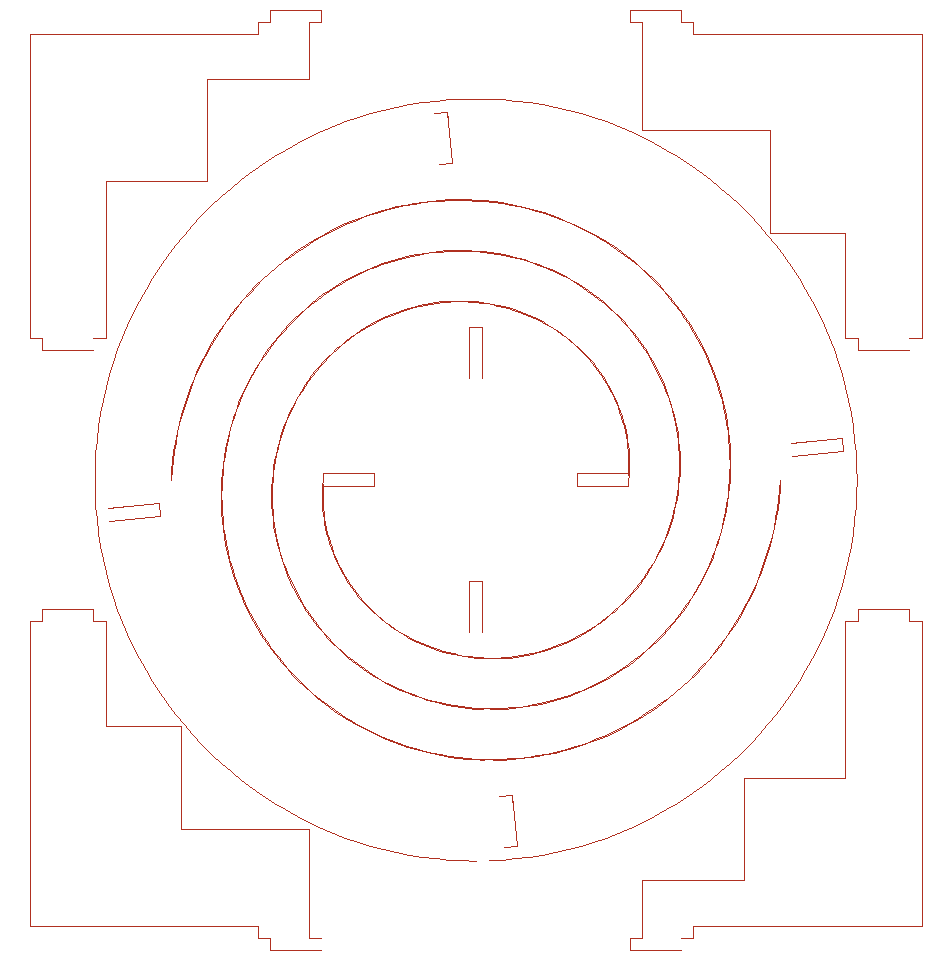
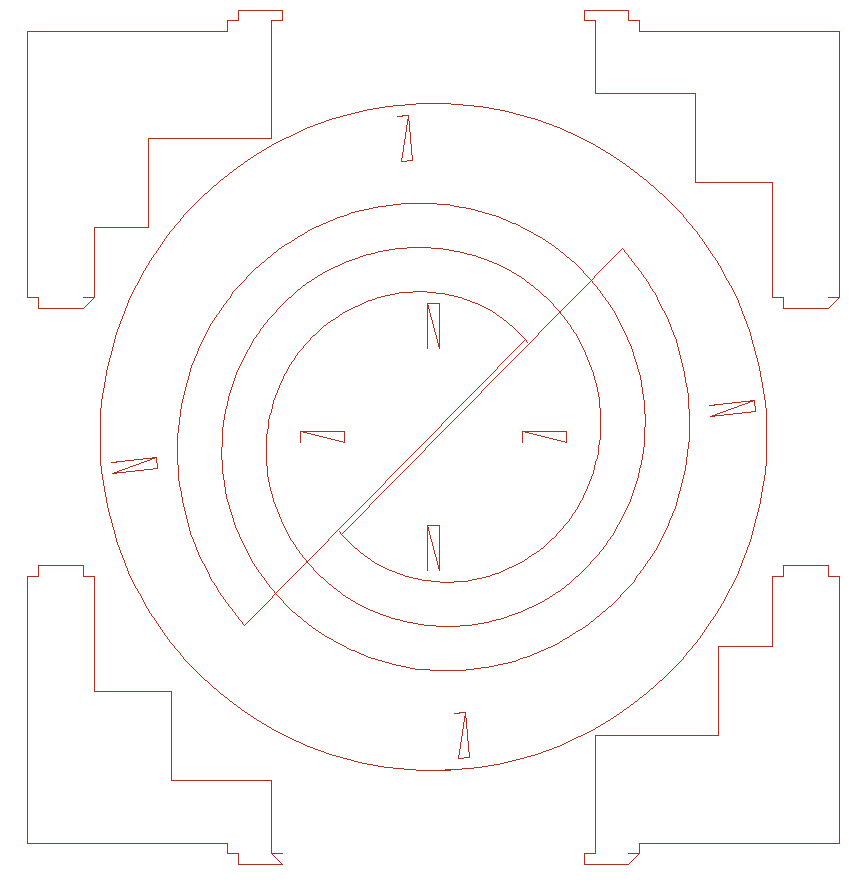
orpot: single-kerf spiral + 45° offset + orpot_gcode.py one-command pipeline
- orpot.scad: spiral_offset (45°) rotates the spiral cuts off the rib slots so
  the tab between a slot and the spiral start can't split; applied to the cuts,
  rib shelves (rib_crossings), and the 3D arms. Add spiral_centerline() and a
  MODE="frame" (disc without spiral slots + ribs) that also echoes the spiral
  centerlines. Hoisted layout size to layout_side + shared ribs_layout().
- orpot_gcode.py: one command -> build/orpot.gcode. Exports the frame SVG,
  reads the echoed spiral centerlines, injects them as open polylines, and calls
  svg2laser so the spirals cut SINGLE-KERF (once down the centerline) instead of
  tracing both sides of a thin slot. Cut length 4.2m -> 3.1m.
- svg2laser.py: (unchanged behavior) open polylines cut once = single kerf.
- README: documents the one-command and general pipelines.

diff --git a/orpot/orpot_gcode.py b/orpot/orpot_gcode.py
@@ -1,0 +1,130 @@
+#!/usr/bin/env python3
+"""orpot_gcode.py — one-command laser G-code for the orchid pot (single-kerf).
+
+The spiral cuts must be single-kerf (traced once down the centerline), but
+OpenSCAD 2D export can only produce filled areas — a thin spiral slot would be
+traced on BOTH sides. So this wrapper:
+
+  1. runs OpenSCAD in MODE="frame" to export the disc WITHOUT the spiral slots
+     (just the outer circle + rib slots) plus the 4 ribs, as SVG outlines, and
+  2. captures the spiral CENTERLINES that the .scad echoes,
+  3. injects the centerlines into that SVG as open <polyline>s, and
+  4. calls svg2laser.py, which cuts open polylines once (single kerf) and closed
+     outlines once around — all with the diode static-M3 + warmup workaround.
+
+Everything is driven by orpot.scad (single source of truth); the spiral echo
+uses the same parameters as the cut, so they can't drift.
+
+Usage:
+  ./orpot_gcode.py --material mdf_3mm            # -> build/orpot.gcode
+  ./orpot_gcode.py --material mdf_3mm --warmup-ms 1200 --origin center
+  ./orpot_gcode.py --scad orpot.scad -o build/orpot.gcode -- --feed 300 --power 90
+
+Anything after `--` (or any unrecognized flag) is passed through to svg2laser;
+see `svg2laser.py -h`.
+"""
+
+from __future__ import annotations
+
+import argparse
+import re
+import shutil
+import subprocess
+import sys
+from pathlib import Path
+
+DIR = Path(__file__).resolve().parent
+_NUM = r"[-+]?(?:[0-9]*\.[0-9]+|[0-9]+\.?)(?:[eE][-+]?[0-9]+)?"
+
+
+def find_openscad(explicit: str | None) -> str:
+    for c in ([explicit] if explicit else []) + [
+        "openscad",
+        "/Applications/OpenSCAD.app/Contents/MacOS/OpenSCAD",
+        "/usr/bin/openscad",
+        "/usr/local/bin/openscad",
+    ]:
+        if c and (shutil.which(c) or Path(c).exists()):
+            return c
+    raise SystemExit("openscad not found; pass --openscad /path/to/OpenSCAD")
+
+
+def parse_spirals(stderr: str) -> list[list[tuple[float, float]]]:
+    """Pull the echoed 'SPIRAL', [[x,y],...] point lists out of OpenSCAD output."""
+    out = []
+    for line in stderr.splitlines():
+        if '"SPIRAL"' not in line:
+            continue
+        nums = [float(n) for n in re.findall(_NUM, line.split('"SPIRAL"', 1)[1])]
+        out.append([(nums[i], nums[i + 1]) for i in range(0, len(nums) - 1, 2)])
+    return out
+
+
+def main() -> int:
+    ap = argparse.ArgumentParser(
+        prog="orpot_gcode",
+        description=__doc__.splitlines()[0],
+        formatter_class=argparse.RawDescriptionHelpFormatter,
+        epilog=__doc__,
+    )
+    ap.add_argument("--scad", type=Path, default=DIR / "orpot.scad")
+    ap.add_argument("--openscad", help="path to the OpenSCAD binary")
+    ap.add_argument("-o", "--out", type=Path, default=DIR / "build" / "orpot.gcode")
+    ap.add_argument(
+        "--help-svg2laser",
+        action="store_true",
+        help="show svg2laser's own options (feed/power/passes/warmup/…)",
+    )
+    args, fwd = ap.parse_known_args()
+    if args.help_svg2laser:
+        return subprocess.run(
+            [sys.executable, str(DIR / "svg2laser.py"), "-h"]
+        ).returncode
+
+    osc = find_openscad(args.openscad)
+    build = args.out.parent
+    build.mkdir(parents=True, exist_ok=True)
+    frame_svg = build / "orpot_frame.svg"
+    combined = build / "orpot_combined.svg"
+
+    # 1+2: export the frame SVG and capture the spiral-centerline echo
+    proc = subprocess.run(
+        [osc, "-o", str(frame_svg), "-D", 'MODE="frame"', str(args.scad)],
+        capture_output=True,
+        text=True,
+    )
+    if proc.returncode != 0:
+        sys.stderr.write(proc.stderr)
+        raise SystemExit("OpenSCAD frame export failed")
+    spirals = parse_spirals(proc.stderr)
+    if not spirals:
+        raise SystemExit(
+            'no spiral centerlines echoed — is MODE="frame" wired in orpot.scad?'
+        )
+
+    # 3: inject the spiral centerlines as open polylines. OpenSCAD's SVG export
+    # negates Y (y-down); the echo is in OpenSCAD Y-up coords, so negate Y here
+    # to land the spirals in the same frame as the SVG paths.
+    svg = frame_svg.read_text()
+    polylines = "\n".join(
+        '<polyline fill="none" stroke="black" stroke-width="0.1" points="'
+        + " ".join(f"{x:.4f},{-y:.4f}" for x, y in pts)
+        + '"/>'
+        for pts in spirals
+    )
+    combined.write_text(svg.replace("</svg>", polylines + "\n</svg>"))
+
+    # 4: hand off to svg2laser (open polylines -> single-kerf; closed -> outline)
+    cmd = [
+        sys.executable,
+        str(DIR / "svg2laser.py"),
+        str(combined),
+        "-o",
+        str(args.out),
+    ] + [a for a in fwd if a != "--"]
+    print(f"$ {' '.join(cmd)}")
+    return subprocess.run(cmd).returncode
+
+
+if __name__ == "__main__":
+    sys.exit(main())

diff --git a/orpot/README.md b/orpot/README.md
@@ -51,27 +51,43 @@ the default. (This is separate from the Python `scad` command's generated file.)
   pattern to ease the curl — see the excellent `~/src/boxes` (boxes.py) library
 - an inner net-pot liner ledge
 
-## G-code (`svg2laser.py`)
+## G-code
 
-The design lives in `orpot.scad`; laser G-code is generated from its SVG export
-by `svg2laser.py` — a standalone CLI (no dependency on the rest of orpot) built
-for a **weak diode laser**. Unlike typical svg→gcode tools (which assume an
-instant-on CO2 laser: M4 dynamic power, cut-on-fire), it emits **static M3
-constant power** and a front-loaded **warmup lead-in** that traces back and forth
-over the start of each cut so the beam reaches full power before it bites. It also
-orders cuts interior-first / outer-boundary-last so the part stays anchored.
+Both tools are built for a **weak diode laser**: unlike typical svg→gcode tools
+(which assume an instant-on CO2 laser — M4 dynamic power, cut-on-fire), they emit
+**static M3 constant power** with a front-loaded **warmup lead-in** that traces
+back and forth over the start of each cut so the beam reaches full power before it
+bites. Cuts are ordered interior-first / outer-boundary-last so the part stays
+anchored to the sheet.
+
+### One command: `orpot_gcode.py`
 
 ```bash
-# 1. export the flat cut from OpenSCAD (MODE=cut) to SVG
-openscad -o build/orpot_cut.svg -D 'MODE="cut"' orpot.scad
-# 2. SVG -> GRBL diode-laser G-code (static M3 + 1s warmup, mdf_3mm profile)
-python svg2laser.py build/orpot_cut.svg -o build/orpot_cut.gcode --material mdf_3mm
+python orpot_gcode.py --material mdf_3mm          # -> build/orpot.gcode
 ```
 
-`svg2laser.py` works on any polygonal SVG (straight segments exact; curves
-flattened), reads material feed/power/passes from `profiles/laser_materials.yaml`
-(`--material`) or via `--feed/--power/--passes`, and takes `--warmup-ms`,
-`--min-seg`, `--margin`, `--origin {corner,center}`. See `svg2laser.py -h`.
+This drives everything from `orpot.scad`: it exports the **frame** (disc without
+the spiral slots + the 4 ribs) as SVG outlines, reads the **spiral centerlines**
+the .scad echoes, and cuts the spirals as **single-kerf** open paths (traced once
+down the centerline, not both sides of a slot). The spiral is rotated
+`spiral_offset` (45°) off the rib slots so the tab between a slot and the spiral
+start can't split. Extra flags (`--feed`, `--power`, `--warmup-ms`,
+`--origin`, …) pass through to `svg2laser.py`.
+
+### General tool: `svg2laser.py`
+
+Standalone CLI (no dependency on the rest of orpot) — turns *any* polygonal SVG
+of cut paths into diode-laser G-code. Closed loops are cut once around; **open
+paths (`<polyline>`) are cut once = single kerf**. Straight segments are exact,
+curves/arcs flattened. Reads feed/power/passes from
+`profiles/laser_materials.yaml` (`--material`) or `--feed/--power/--passes`; also
+`--warmup-ms`, `--min-seg`, `--margin`, `--origin {corner,center}`. See
+`svg2laser.py -h`.
+
+```bash
+openscad -o build/cut.svg -D 'MODE="cut"' orpot.scad   # (double-cuts the spirals)
+python svg2laser.py build/cut.svg --material mdf_3mm    # any SVG works
+```
 
 ## The parts
 
